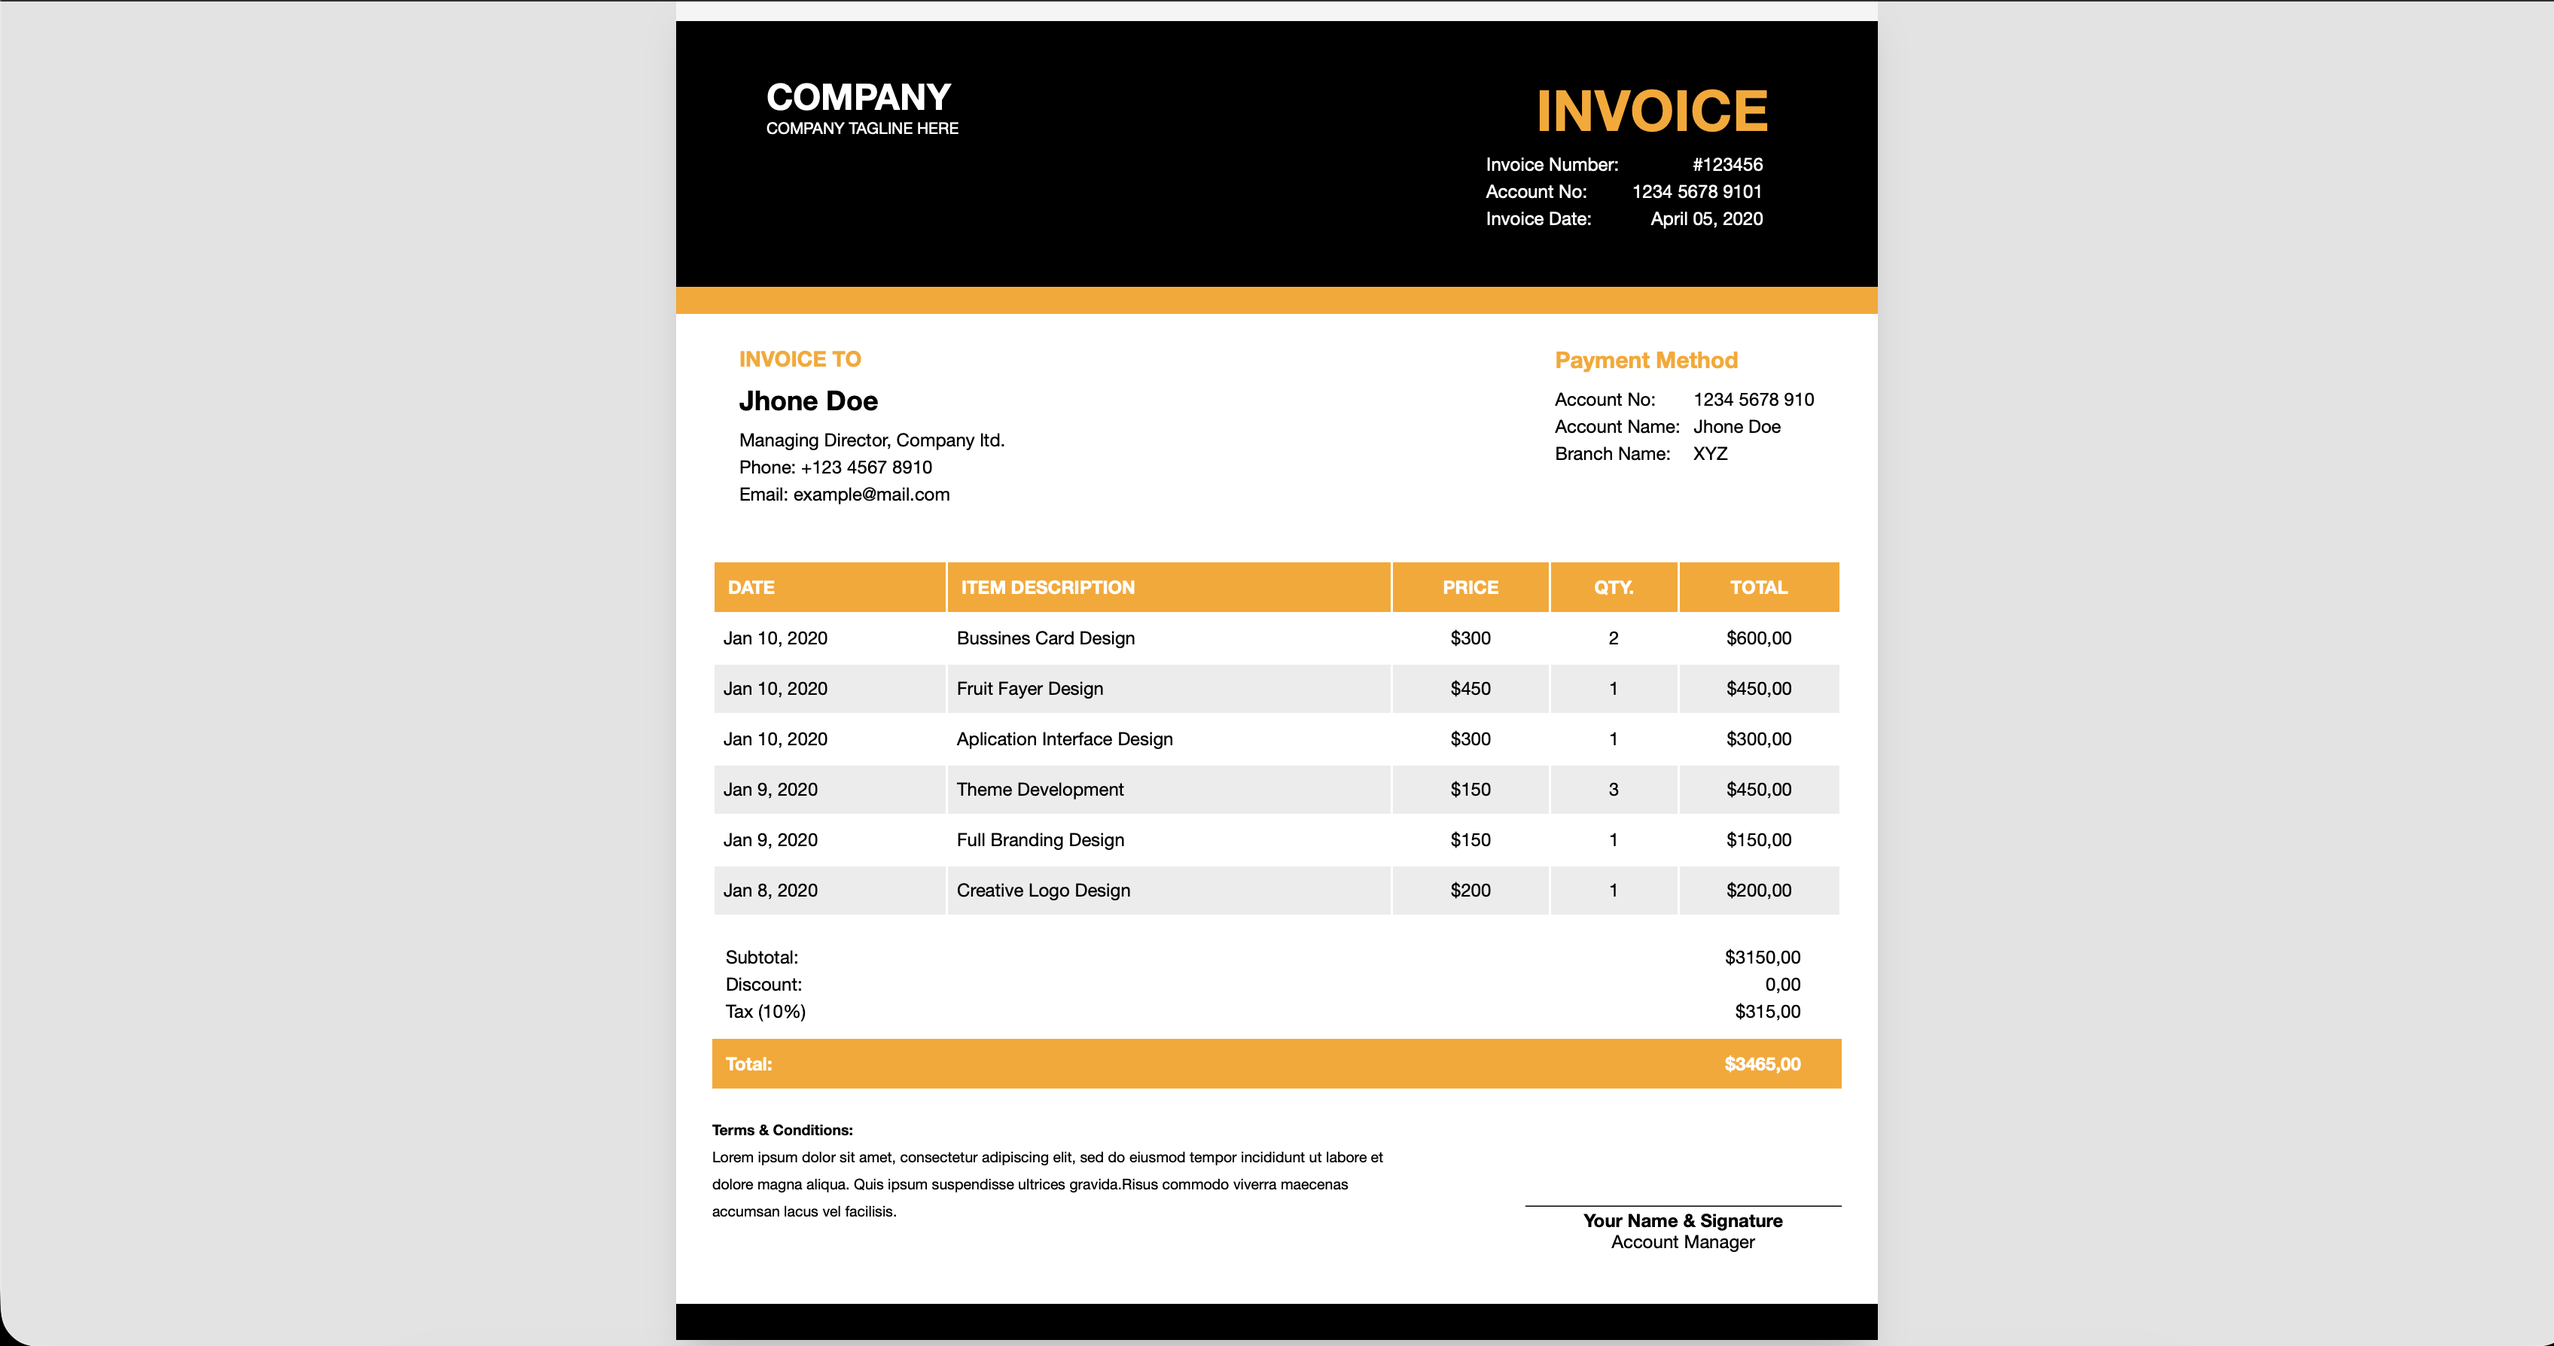
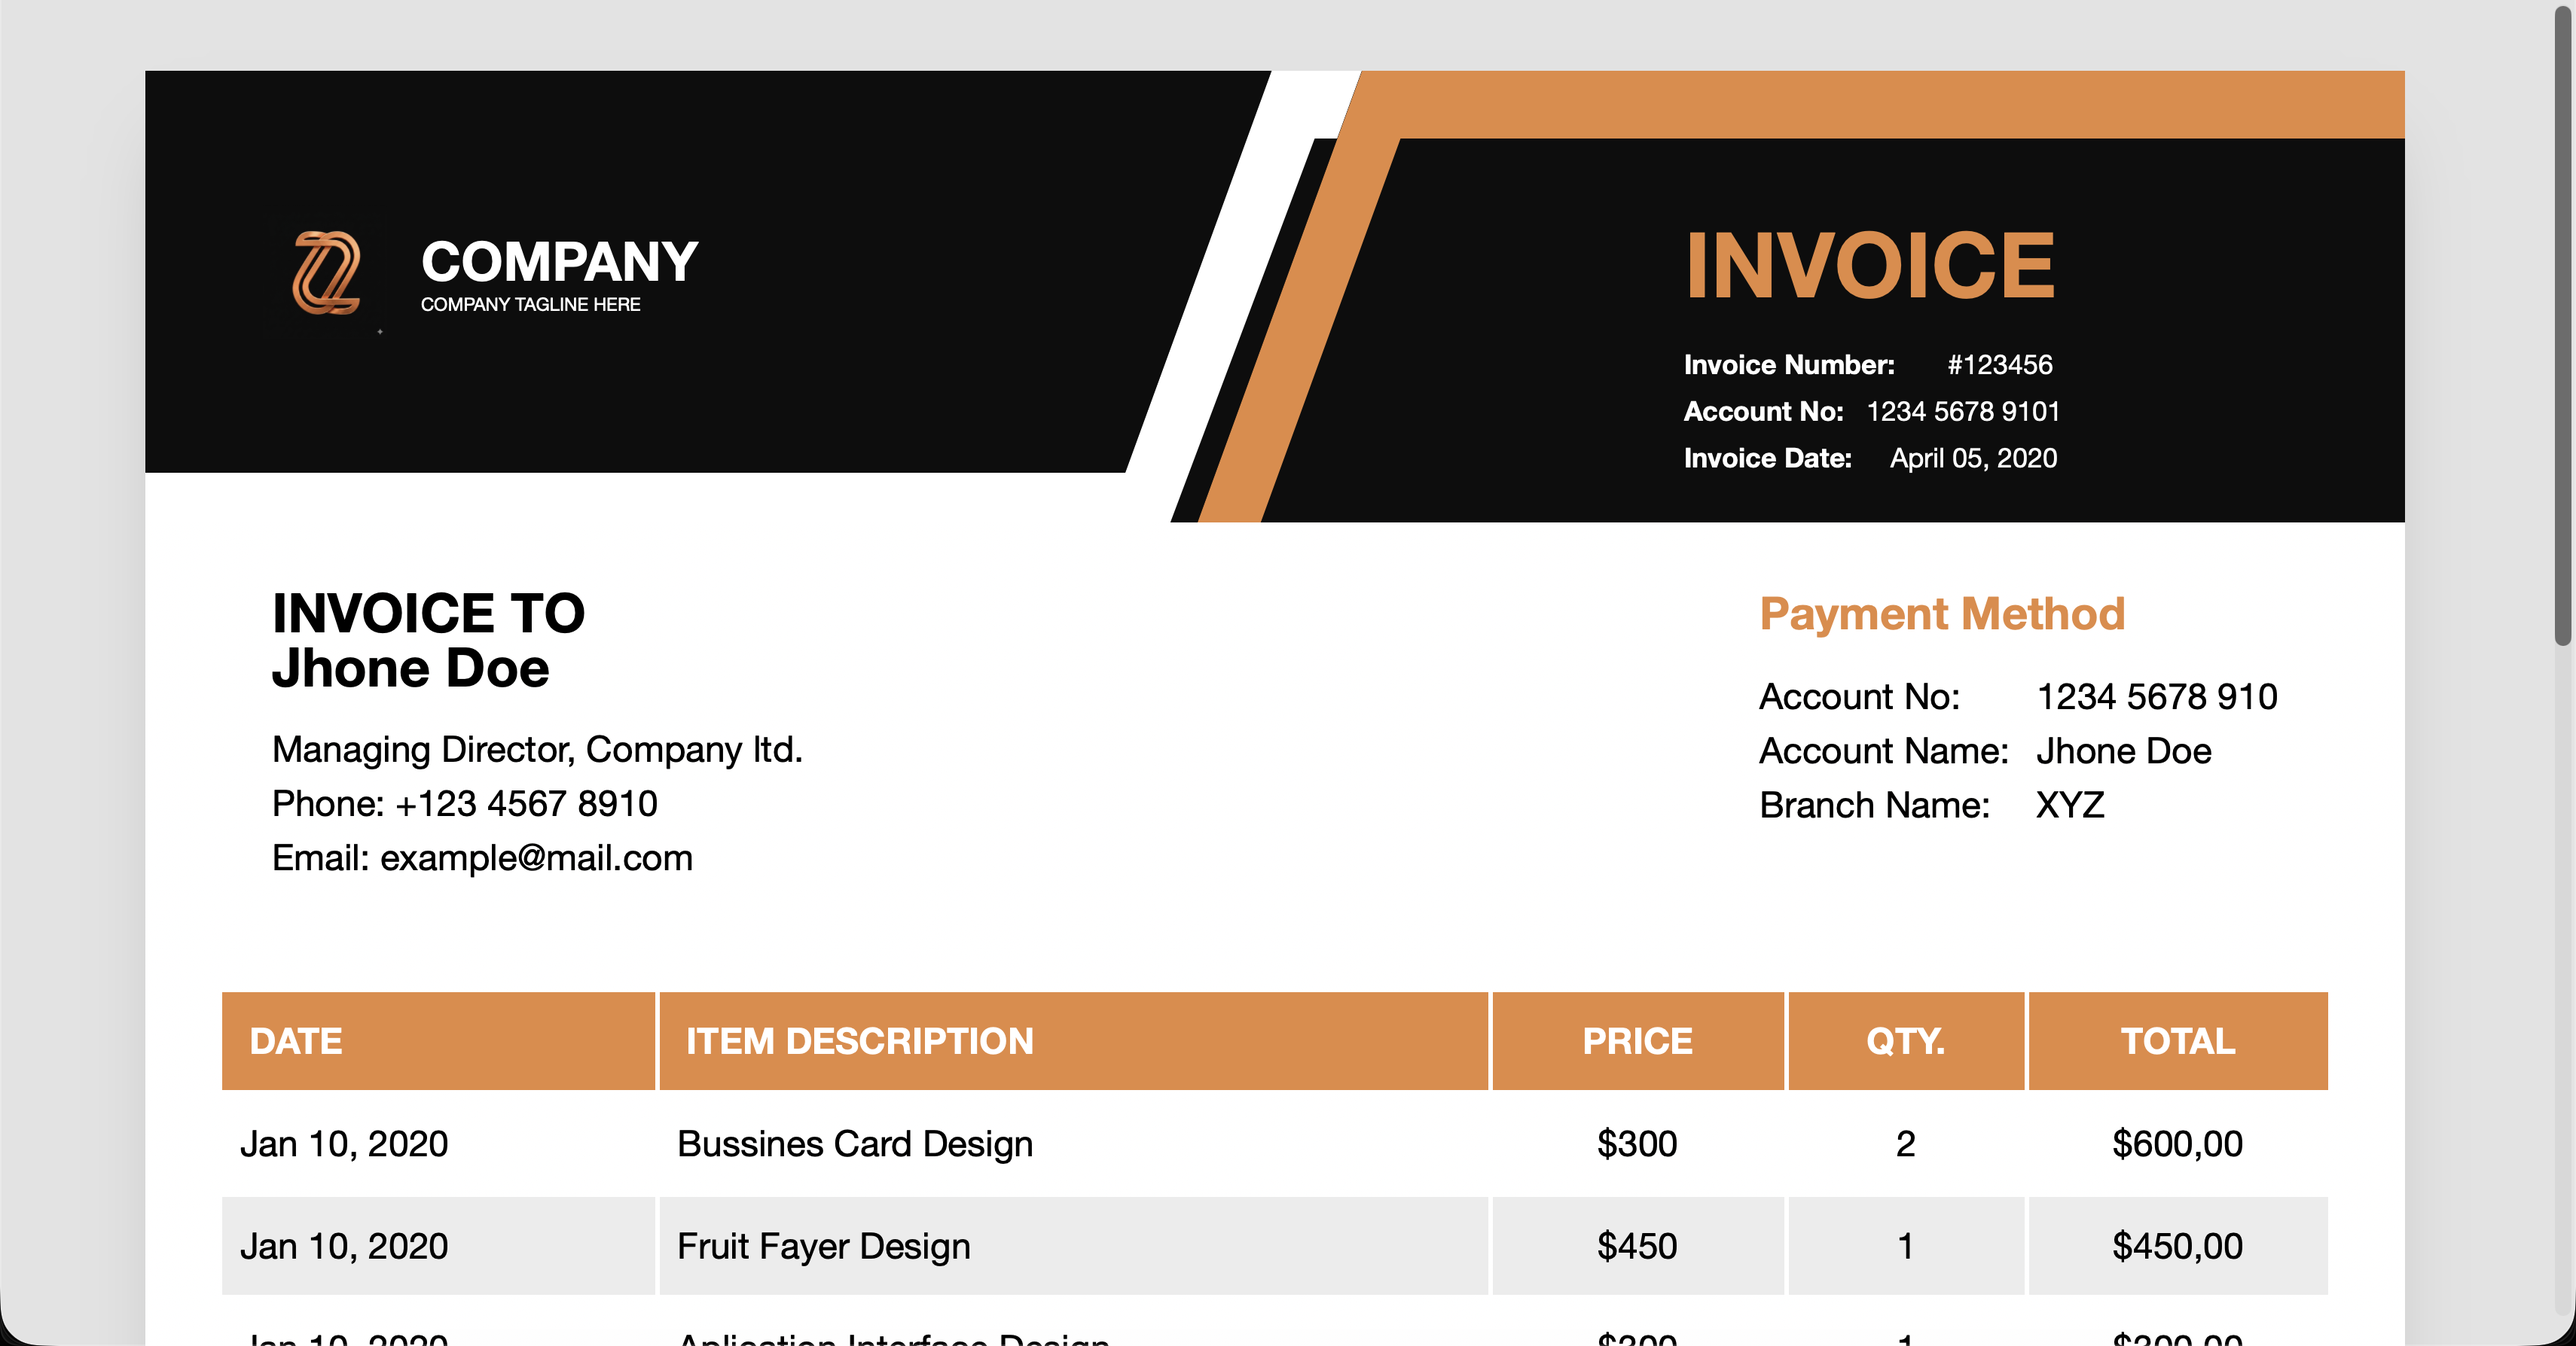
Portafolio: Ajustes de diseño y optimización de responsividad con Flexbox

diff --git a/estilos.css b/estilos.css
@@ -16,7 +16,7 @@ header {
     color: rgb(209, 209, 209);
     padding: 15px;
     text-align: center;
-    border-bottom: 5px solid #ffd996;
+    border-bottom: thick double #ffd996;
 }
 
 .header-name {
@@ -31,16 +31,23 @@ header {
     color: rgb(209, 209, 209);
 }
 
+.nav {
+    display: flex;
+    flex-wrap: wrap;
+    justify-content: center;
+    gap: 10px;
+}
+
 .nav a {
     color: rgb(209, 209, 209);
-    text-decoration: wavy underline;
-    margin: 0 10px;
+    text-decoration: underline #ffd996;
+    margin: 0 5px;
 }
 
 .bienvenida {
     background-color: #0033a0;
     color: rgb(209, 209, 209);
-    padding: 15px 5px;
+    padding: 25px 15px; 
     text-align: center;
 }
 
@@ -53,38 +60,39 @@ header {
     font-size: 16px;
     margin: 5px 0;
 }
-
     
 .titulo-proyectos {
     text-align: center;
     font-size: 32px;
     color: rgb(209, 209, 209);
-    padding: 15px 0 15px;
+    padding: 15px 0;
     background: linear-gradient(90deg, #001a4d, #0033a0, #0057d9, #0033a0, #001a4d);
+    border: 1px solid #ffd996;
 }
 
 .seccion-proyectos {
     width: 100%;
     background: linear-gradient(90deg, #0057d9, #0033a0, #001a4d, #0033a0, #0057d9);
-    padding: 20px 20px 40px 20px;
-    overflow: hidden;
+    padding: 20px 10px 40px 10px;
 }
 
 .contenedor-proyectos {
-    max-width: 100%;
-    margin: 10px;
-    padding: 10px;
+    max-width: 1200px; 
+    margin: 0 auto;
+    display: flex;
+    flex-wrap: wrap; 
+    justify-content: center; 
 }
 
 .tarjeta-proyectos {
-    float: left;
-    width: 30%;
-    margin: 1.5%;
+    width: 100%; 
+    margin: 15px 10px;
     background-color: #0057d9;
     border-radius: 8px;
     padding-bottom: 20px;
     text-align: center;
     box-shadow: 8px 6px 12px rgba(0, 0, 0, 0.3);
+    border: 1px solid #ffd996;
 }
 
 .img-placeholder {
@@ -113,9 +121,15 @@ header {
     margin: 0 15px 15px;
 }
 
+.botones {
+    display: flex;
+    justify-content: center;
+    gap: 10px;
+    flex-wrap: wrap;
+}
+
 .botones a {
-    padding: 6px 12px;
-    margin: 0 5px;
+    padding: 8px 14px; 
     background-color: #1e4c8c;
     color: rgb(209, 209, 209);
     text-decoration: none;
@@ -125,17 +139,28 @@ header {
 
 .botones a:hover {
     background-color: #0033a0;
-    color: rgb(209, 209, 209);
-    text-decoration: none;
-    border-radius: 4px;
-    font-size: 14px;
     transition: all 0.3s ease;
 }
 
 .footer {
     background: linear-gradient(90deg, #0057d9, #0033a0, #001a4d, #0033a0, #0057d9);
     color: rgb(209, 209, 209);
-    text-align: right;
+    text-align: center; 
     padding: 15px;
     border: 5px solid #ffd996;
+}
+
+@media (min-width: 600px) {
+    .tarjeta-proyectos {
+        width: calc(50% - 20px); 
+    }
+    .footer {
+        text-align: right; 
+    }
+}
+
+@media (min-width: 992px) {
+    .tarjeta-proyectos {
+        width: calc(33.33% - 20px); 
+    }
 }
